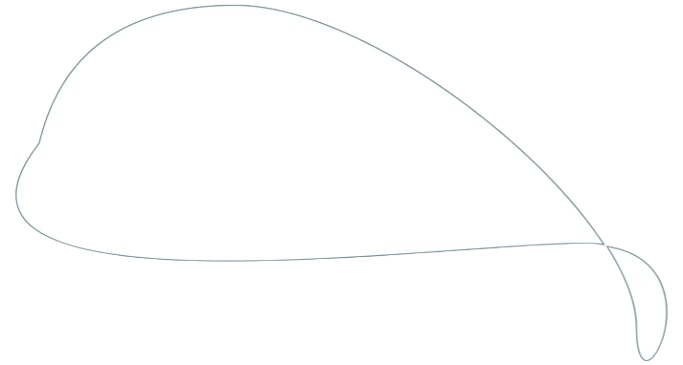
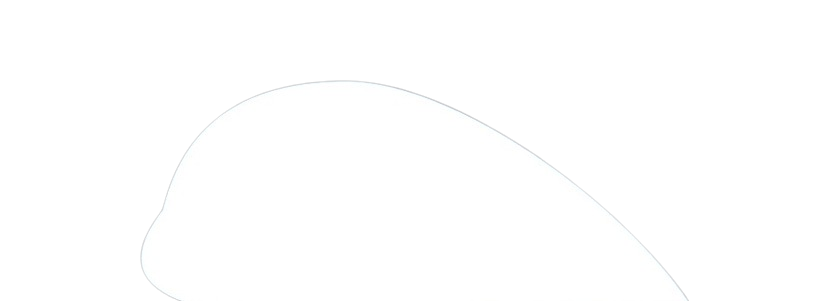
Segundo commit tela apresentação

diff --git a/css/styles.css b/css/styles.css
@@ -35,11 +35,21 @@ h2{
   font-size: 40px!important;
 }
 
-.imagem{
-  width: 20%;
-  margin-left: 16%;
-  margin-top: -5.5%;
+.imagem_base{
+  width: 35%;
+  height:auto;
 }
+
+.imagem_sobreposta{
+	position: absolute;
+	bottom:-0!important;
+  top: -100;
+	right: 0;
+	width:50%;
+	height: auto;
+	z-index: 1;
+}
+
 .elemento1{
   height: 10px;
   width: 5px; 
@@ -51,15 +61,21 @@ h2{
   background-color: #628a96;
   color: white;
   padding: 1%;
-  text-align: center;
+  text-align: left;
   font-weight: bold;
   z-index: -1;
-  display: flex;
+  flex-shrink: 0;
+  position: absolute;
+  width:100%;
+  align-self: flex-start;
 }
+
 
 .imagem-footer{
   display: flex;
   align-items: flex-end;
   justify-content: flex-end;
+  position: relative;
+  flex-wrap: wrap-reverse;
 }
 

diff --git a/telas/inicio.html b/telas/inicio.html
@@ -34,13 +34,13 @@
       <button class="Cadastrar">Cadastrar</button>
     </div>
   </div>
-
   <div class="imagem-footer">
-  <img src="../img/fundo2.png" alt="Detalhe gráfico" class="footer-right">
-  <img src="../img/fundo1.png" alt="Marca New System" class="footer-left">
-  </div>
-  <footer class="footer text-gray-300">Desenvolvido por New System <sup>®</sup>
+    <img src="../img/fundo1.png" class="imagem_base" alt="Marca New System">
+	  <img src="../img/fundo2.png" class="imagem_sobreposta" alt="Detalhe gráfico">
+	  <footer class="footer text-gray-300 text-left">Desenvolvido por New System <sup>®</sup>
   </footer>
+  </div>
+  
 
 </body>
 
